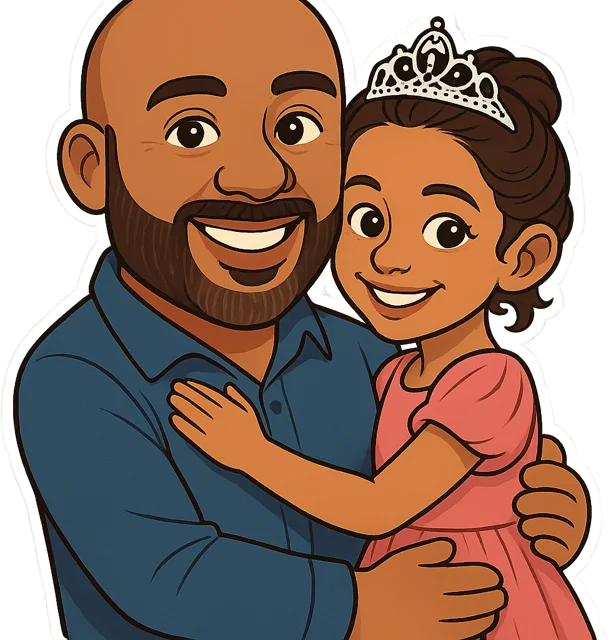
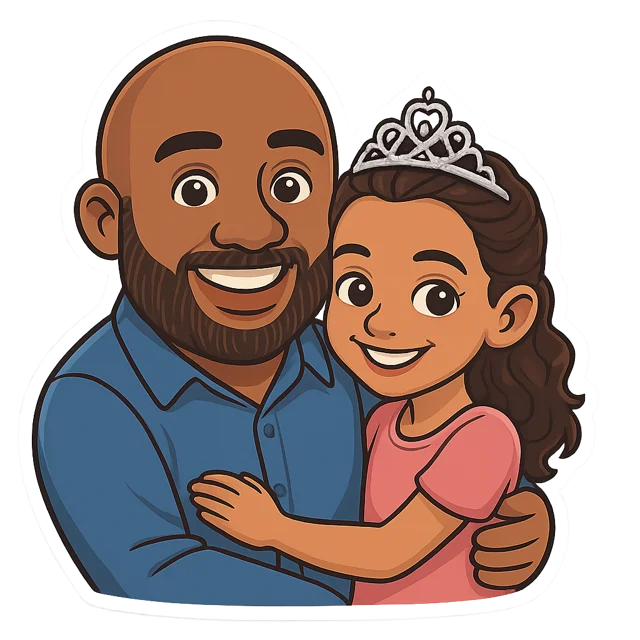
Fix wave axis on Blender arms; hug sticker with headroom

diff --git a/src/three/Avatar.tsx b/src/three/Avatar.tsx
@@ -126,9 +126,17 @@ export function Avatar(props: AvatarProps) {
         l.rotation.z = wand ? -0.5 : -0.08;
       }
       if (r) {
+        // The Blender-built arm pivots lift the arm sideways about X; the procedural arm uses Z.
+        const glbArm = r.userData.glb === true;
         if (wave) {
-          r.rotation.z = -(2.55 + Math.sin(t * 7) * 0.4);
-          r.rotation.x = 0;
+          const lift = -(2.3 + Math.sin(t * 7) * 0.35);
+          if (glbArm) {
+            r.rotation.set(lift, 0, 0);
+          } else {
+            r.rotation.set(0, 0, lift);
+          }
+        } else if (glbArm) {
+          r.rotation.set(Math.sin(t * 1.6 + 1) * 0.06, 0, 0);
         } else {
           r.rotation.z = 0.08;
           r.rotation.x = Math.sin(t * 1.6 + 1) * 0.06;
@@ -253,6 +261,8 @@ function GlbRig(props: { scene: THREE.Object3D; expr: Expression; procFace: Reac
   useEffect(() => {
     refs.armL.current = nodes.armL;
     refs.armR.current = nodes.armR;
+    if (nodes.armR) nodes.armR.userData.glb = true;
+    if (nodes.armL) nodes.armL.userData.glb = true;
     refs.head.current = nodes.head;
     refs.tail.current = nodes.tail;
     return () => {
